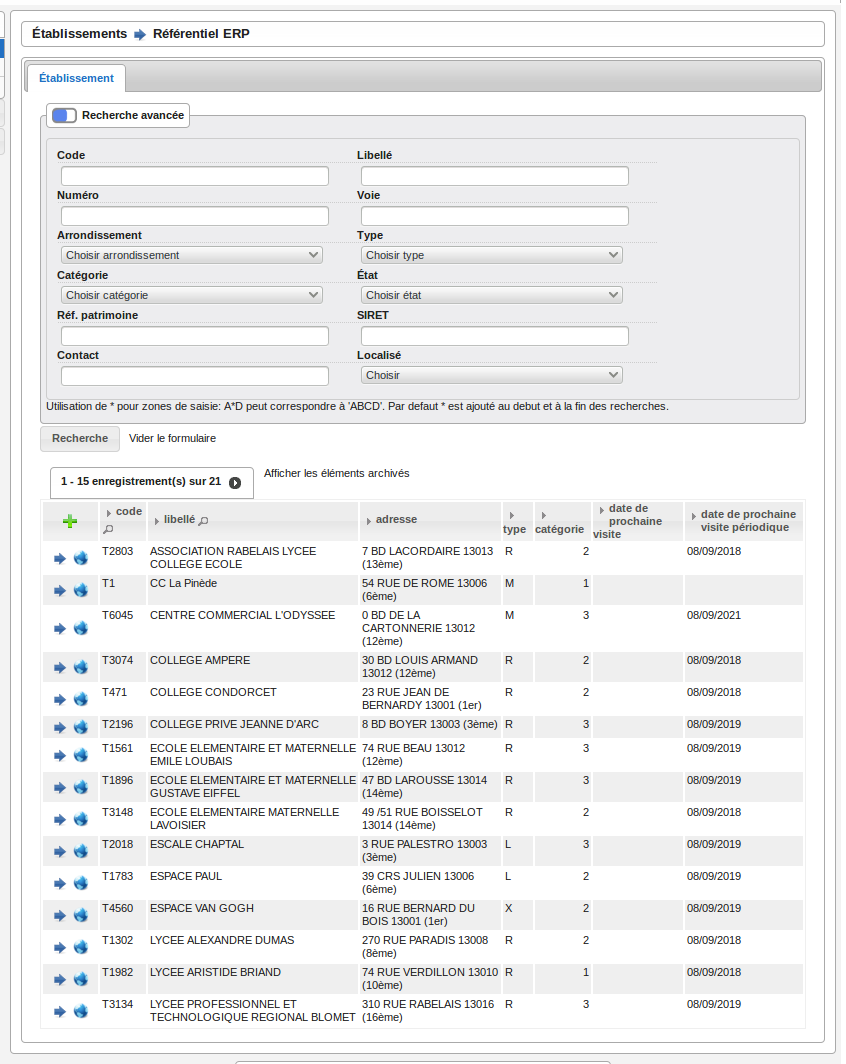
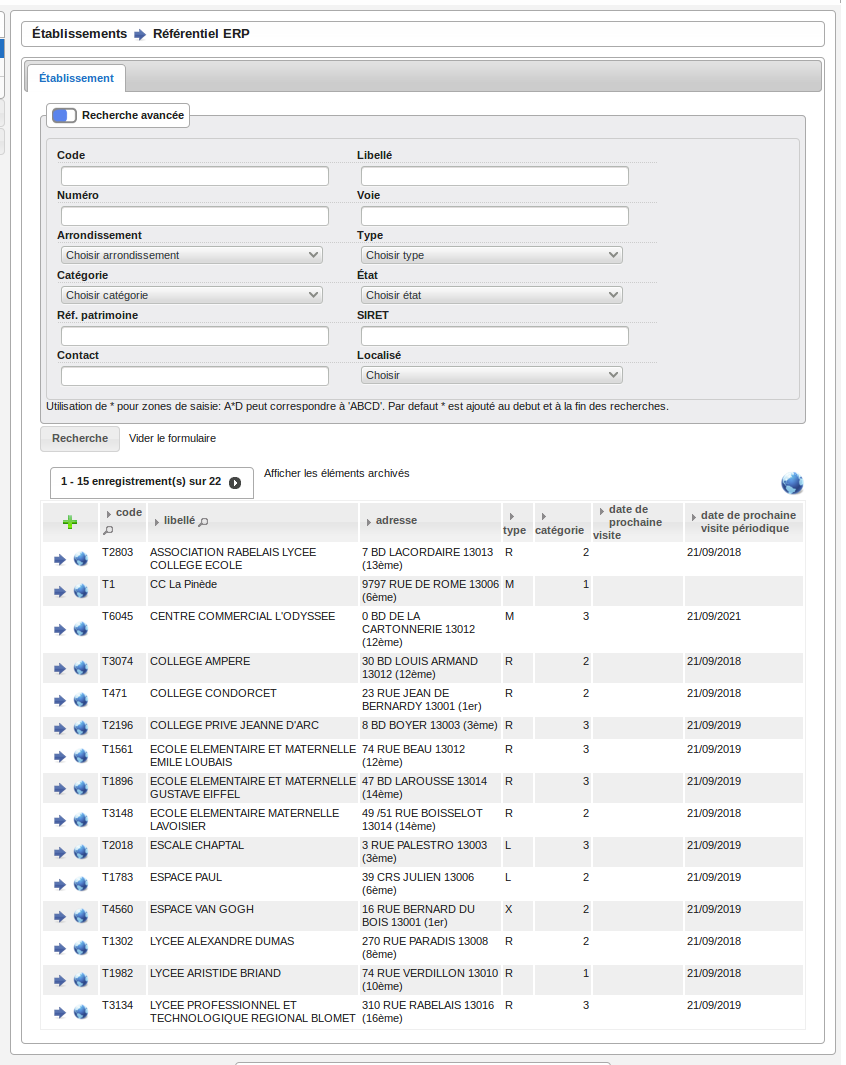
Mise à jour de screenshots Le bouton localiser une sélection d'établissements ayant été ajouté dans le menu Référentiel ERP, les sceenshots et la documentation été mis à jour

diff --git a/source/manuel_utilisateur/etablissements/index.rst b/source/manuel_utilisateur/etablissements/index.rst
@@ -23,6 +23,8 @@ Depuis le menu "Référentiel ERP"
 
 Liste tous les établissements qui constituent le référentiel officiel des ERP.
 
+Lorsqu'un Système d'Information Géographique est paramétré, un icône en forme de Terre au-dessus du listing permet d'être redirigé vers le SIG et de consulter la sélection actuelle d'établissements. S'il n'y a pas eu de recherche avancée, le bouton redirige vers la couche des établissements sur le SIG.
+
 .. image:: etablissement_referentiel_erp-listing.png
 
 Depuis le menu "Tous les établissements"
@@ -30,7 +32,7 @@ Depuis le menu "Tous les établissements"
 
 Liste tous les établissements ERP, les référentiels et les autres.
 
-L'icône en forme de Terre au-dessus du listing permet d'être redirigé vers le SIG et de consulter la sélection actuelle d'établissements. S'il n'y a pas eu de recherche avancée, le bouton redirige vers la couche des établissements sur le SIG.
+Lorsqu'un Système d'Information Géographique est paramétré, un icône en forme de Terre au-dessus du listing permet d'être redirigé vers le SIG et de consulter la sélection actuelle d'établissements. S'il n'y a pas eu de recherche avancée, le bouton redirige vers la couche des établissements sur le SIG.
 
 .. image:: etablissement_tous-listing.png
 

diff --git a/source/manuel_utilisateur/dossiers/index.rst b/source/manuel_utilisateur/dossiers/index.rst
@@ -39,7 +39,7 @@ Tous les dossiers
 
 Ce listing présente tous les dossiers de coordination.
 
-L'icône en forme de Terre au-dessus du listing permet d'être redirigé vers le SIG et de consulter la sélection actuelle de dossiers de coordination. S'il n'y a pas eu de recherche avancée, le bouton redirige vers la couche des dossiers de coordination sur le SIG.
+Lorsqu'un Système d'Information Géographique est paramétré, un icône en forme de Terre au-dessus du listing permet d'être redirigé vers le SIG et de consulter la sélection actuelle de dossiers de coordination. S'il n'y a pas eu de recherche avancée, le bouton redirige vers la couche des dossiers de coordination sur le SIG.
 
 .. image:: dossier_coordination-listing.png
 
